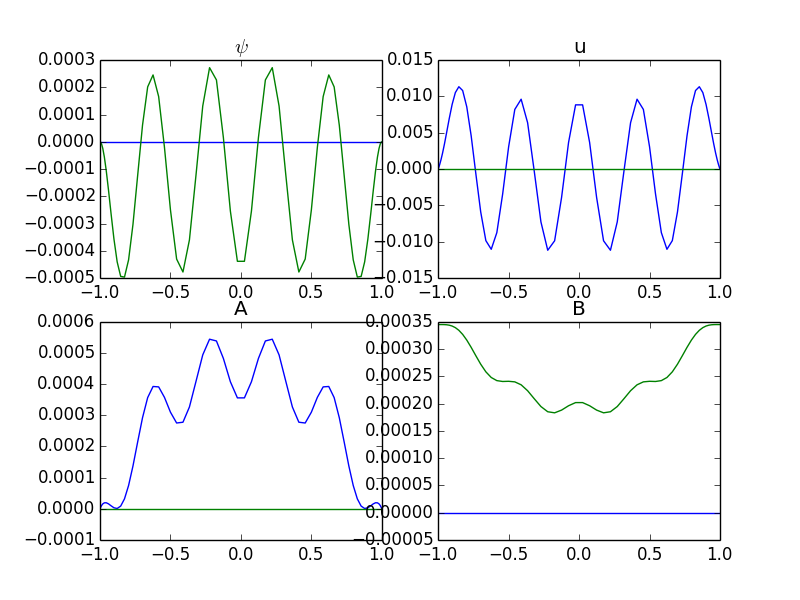
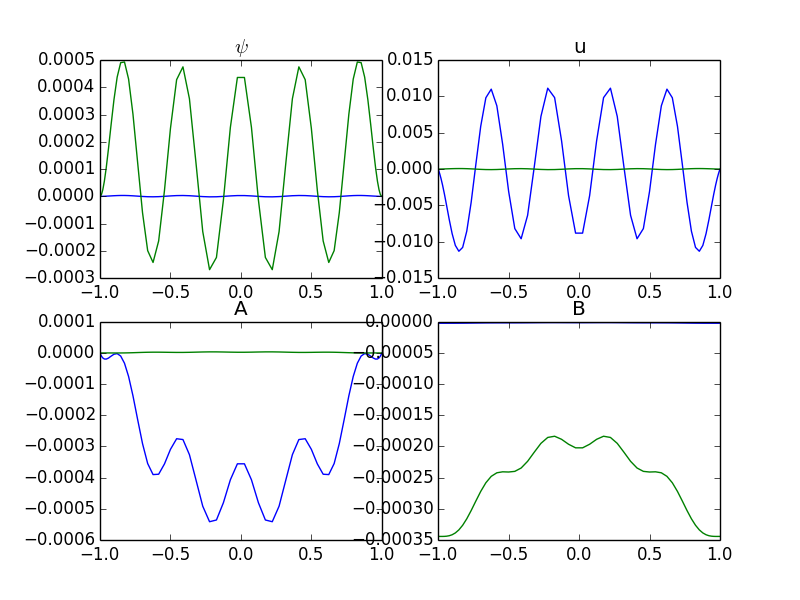
finer grid..

diff --git a/python/adjoint_homogenous.py b/python/adjoint_homogenous.py
@@ -5,7 +5,7 @@ from dedalus2.pde.solvers import LinearEigenvalue
 import pylab
 lv1 = ParsedProblem(['x'],
                       field_names=['psi','u', 'A', 'B', 'psix', 'psixx', 'psixxx', 'ux', 'Ax', 'Bx'],
-                      param_names=['Q', 'iR', 'iRm', 'q', 'ifourpi'])
+                      param_names=['Q', 'iR', 'iRm', 'q', 'Co'])
                       
 x_basis = Chebyshev(64)#(256)
 domain = Domain([x_basis])#,grid_dtype=np.float64)
@@ -13,15 +13,16 @@ domain = Domain([x_basis])#,grid_dtype=np.float64)
 #Solve equations for fixed z eigenvalue: V+ = V+ e^(iQz)
 #Parameter values from Umurhan+:
 Pm = 0.001 #Pm = Rm/R
-R = Rm/Pm
-iR = 1./R
 q = 3/2.
-ifourpi = 1./(4*np.pi)
+Co = 0.08
 
 #Parameter values found by solving the linear MRI to find most unstable mode
-Rm = 4.88
+Rm = 4.877
 iRm = 1./Rm
 Q = 0.75
+
+R = Rm/Pm
+iR = 1./R
 
 #Define higher order derivatives of x
 #These are the equations....
@@ -33,8 +34,8 @@ Q = 0.75
 #multiply by -1j and add dt's:
 lv1.add_equation("-1j*iR*dx(psixxx) - -1j*(2-q)*1j*Q*u - -1j*1j*Q*A - -1j*Q*Q*iR*2*dx(psix) + -1j*Q**4*iR*psi + dt(psi) = 0")
 lv1.add_equation("-1j*iR*dx(ux) - -1j*2*1j*Q*psi - -1j*1j*Q*B - -1j*iR*Q**2*u + dt(u) = 0")
-lv1.add_equation("-1j*iRm*dx(Ax) - -1j*ifourpi*1j*Q*dx(psix) + -1j*q*1j*Q*B - -1j*Q*Q*iRm*A + -1j*1j*Q**3*ifourpi*psi + dt(A) = 0")
-lv1.add_equation("-1j*iRm*dx(Bx) - -1j*ifourpi*1j*Q*u - -1j*Q*Q*iRm*B + dt(B) = 0")
+lv1.add_equation("-1j*iRm*dx(Ax) - -1j*Co*1j*Q*dx(psix) + -1j*q*1j*Q*B - -1j*Q*Q*iRm*A + -1j*1j*Q**3*Co*psi + dt(A) = 0")
+lv1.add_equation("-1j*iRm*dx(Bx) - -1j*Co*1j*Q*u - -1j*Q*Q*iRm*B + dt(B) = 0")
 
 lv1.add_equation("dx(psi) - psix = 0")
 lv1.add_equation("dx(psix) - psixx = 0")
@@ -60,7 +61,7 @@ lv1.parameters['Q'] = Q
 lv1.parameters['iR'] = iR
 lv1.parameters['iRm'] = iRm
 lv1.parameters['q'] = q
-lv1.parameters['ifourpi'] = ifourpi
+lv1.parameters['Co'] = Co
 
 lv1.expand(domain)
 LEV = LinearEigenvalue(lv1,domain)
@@ -93,8 +94,8 @@ ax1 = fig.add_subplot(224)
 ax1.plot(x, LEV.state['B']['g'].imag)
 ax1.plot(x, LEV.state['B']['g'].real)
 ax1.set_title("B")
-fig.savefig("ah.png")
-fig.clf()
+fig.savefig("ah1.png")
+
 
 """
 for i in range(len(evals)):

diff --git a/python/multirun_paramspace.py b/python/multirun_paramspace.py
@@ -8,8 +8,8 @@ import pickle
 #Rmsearch = np.arange(4.84, 4.90, 0.01)
 
 #Finest grid
-Qsearch = np.arange(0.749, 0.751, 0.001)
-Rmsearch = np.arange(4.87, 4.88, 0.001)
+Qsearch = np.arange(0.749, 0.751, 0.0005)
+Rmsearch = np.arange(4.874, 4.879, 0.0005)
 
 # Coarsest grid (for comparison with Umurhan+_)
 #Qsearch = np.arange(0.1, 1.5, 0.1)
@@ -36,7 +36,7 @@ for k,proc in processes.items():
 
 print(results)
 
-pickle.dump(results, open("results_finegrid3.p", "wb"))
+pickle.dump(results, open("results_finegrid6.p", "wb"))
 
 #np.save("results_Qrange"+str(Qsearch[0])+"_to_"+str(Qsearch[-1])+"Rrange"+str(Rmsearch[0])+"_to_"+str(Rmsearch[-1])+".npy", results)
 #np.save("results_test.npy", results)

diff --git a/python/runsplottest.py b/python/runsplottest.py
@@ -3,7 +3,7 @@ import matplotlib.pyplot as plt
 import pylab
 import pickle
 
-testdata = pickle.load(open("results_finegrid3.p", "rb"))
+testdata = pickle.load(open("results_finegrid6.p", "rb"))
 
 Rms = np.zeros(len(testdata))
 Qs = np.zeros(len(testdata))
@@ -16,7 +16,7 @@ for i in range(len(testdata)):
     Qs[i] = RmQ[1]
     eval[i] = jj[1]
     
-eval = -1*eval
+eval = -1j*eval
 
 fig = plt.figure()
 ax1 = fig.add_subplot(121)
